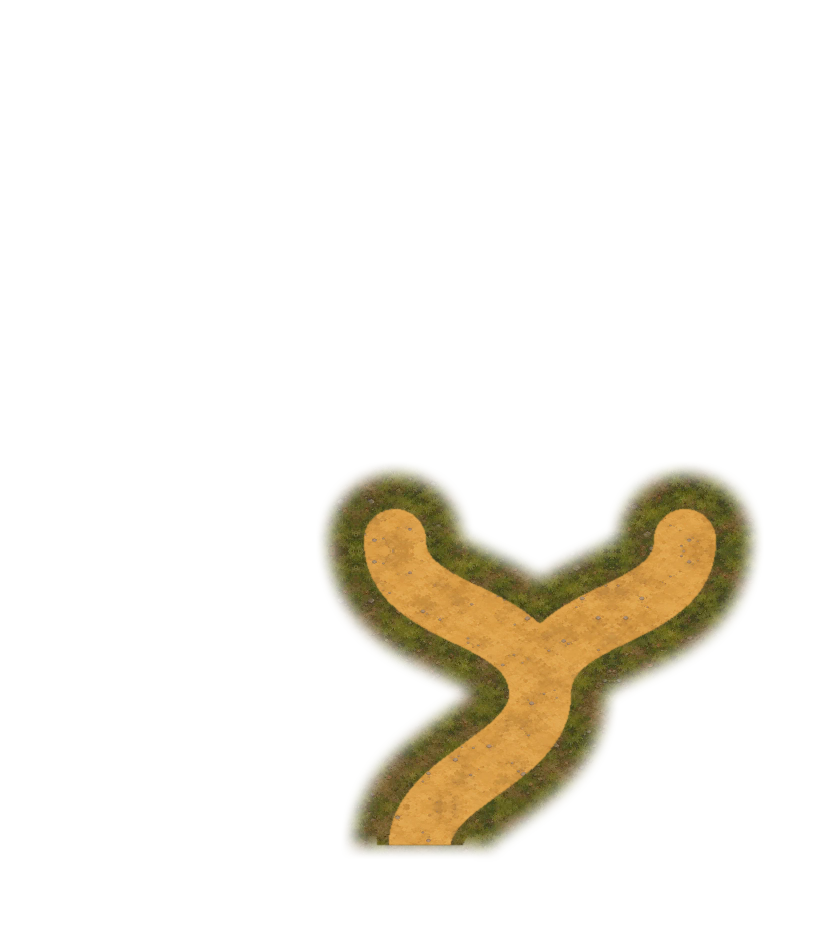
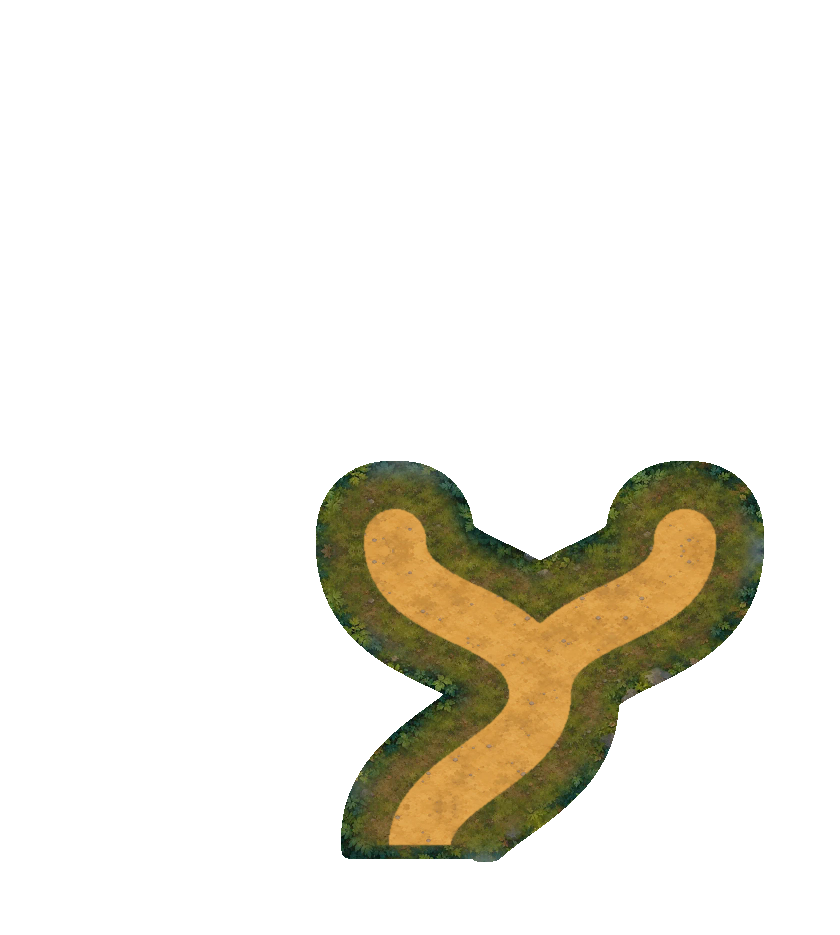
fix: stabilize sound maze mobile rendering

Changed region(s): [[0.3714, 0.4963, 0.9286, 0.9305]]

diff --git a/src/components/SoundMazeMapViewport.tsx b/src/components/SoundMazeMapViewport.tsx
@@ -17,6 +17,7 @@ interface SoundMazeMapViewportProps {
   exploredWrongRoutes: ReadonlySet<string>;
   revealedWallRouteId: string | null;
   focusedRouteSide: 'left' | 'right' | null;
+  restoringWrongRoute?: boolean;
   chosenCorrectRoutes: ReadonlyMap<number, 'left' | 'right'>;
   collectedFragmentNodes: ReadonlySet<number>;
   fragmentCount: number;
@@ -60,7 +61,7 @@ const ROAD_PIECES: readonly RoadPiece[] = [
 const ROAD_TILE_X = -100;
 const ROAD_TILE_WIDTH = 840;
 const roadPieceUrl = (nodeIndex: number, piece: RoadPiece) =>
-  `${soundMazeRoadTile(`node-${nodeIndex + 1}-${piece}`, 'png')}?v=14f1`;
+  `${soundMazeRoadTile(`node-${nodeIndex + 1}-${piece}`, 'png')}?v=14f2`;
 
 function roadTileBounds(nodeIndex: number) {
   const destinationNode = LEVEL_TWO_MAZE_GEOMETRY[nodeIndex + 1];
@@ -74,19 +75,22 @@ function RoadTile({
   nodeIndex,
   piece,
   visible,
-  outgoing
+  outgoing,
+  restoring
 }: {
   nodeIndex: number;
   piece: RoadPiece;
   visible: boolean;
   outgoing: boolean;
+  restoring: boolean;
 }) {
   const bounds = roadTileBounds(nodeIndex);
   const className = [
     'sound-maze-road-tile',
     `piece-${piece}`,
     visible ? 'is-visible' : null,
-    outgoing ? 'is-outgoing' : null
+    outgoing ? 'is-outgoing' : null,
+    restoring ? 'is-restoring' : null
   ].filter(Boolean).join(' ');
   return (
     <img
@@ -128,6 +132,7 @@ export const SoundMazeMapViewport = forwardRef<SoundMazeMapViewportHandle, Sound
   exploredWrongRoutes,
   revealedWallRouteId,
   focusedRouteSide,
+  restoringWrongRoute = false,
   chosenCorrectRoutes,
   collectedFragmentNodes,
   fragmentCount,
@@ -207,6 +212,7 @@ export const SoundMazeMapViewport = forwardRef<SoundMazeMapViewportHandle, Sound
       return piece === `${chosenSide}-correct`;
     }
     if (isCurrent) {
+      if (restoringWrongRoute && piece === 'waiting') return true;
       if (focusedRouteSide === null) return piece === 'waiting';
       if (focusedCorrectSide !== null) return piece === `${focusedCorrectSide}-correct`;
       if (focusedWrongSide !== null) return piece === `${focusedWrongSide}-blocked`;
@@ -218,7 +224,7 @@ export const SoundMazeMapViewport = forwardRef<SoundMazeMapViewportHandle, Sound
   };
 
   const pieceIsOutgoing = (index: number, piece: RoadPiece): boolean =>
-    index === frontierIndex && focusedRouteSide !== null && piece === 'waiting';
+    index === frontierIndex && piece === 'waiting';
 
   return (
     <div className={`sound-maze-viewport sound-maze-map-viewport ${atUnsolvedFork ? 'at-unsolved-fork' : ''}`} aria-label="局部可見的迷霧道路">
@@ -245,6 +251,7 @@ export const SoundMazeMapViewport = forwardRef<SoundMazeMapViewportHandle, Sound
                   piece={piece}
                   visible={pieceIsVisible(index, piece)}
                   outgoing={pieceIsOutgoing(index, piece)}
+                  restoring={index === frontierIndex && piece === 'waiting' && restoringWrongRoute}
                 />
               ));
             })}

diff --git a/src/components/SoundMazeGame.test.tsx b/src/components/SoundMazeGame.test.tsx
@@ -33,14 +33,15 @@ describe('sound maze gameplay shell', () => {
     expect(html).toContain('sound-maze-world');
     expect(html).toContain('level-02-forest-ground.webp');
     expect(html).not.toContain('sound-maze-corridor-bank-edge-mask');
-    expect(html).toContain('road-tiles/node-1-waiting.png?v=14f1');
+    expect(html).toContain('road-tiles/node-1-waiting.png?v=14f2');
+    expect(html).toContain('piece-waiting is-visible is-outgoing');
     expect(html).toContain('level-02-landmark-01-stele.png');
     expect((html.match(/sound-maze-map-route route-/g) ?? [])).toHaveLength(2);
     expect(html).toContain('重播目標讀音');
     expect(html).not.toContain('返回上一個岔路');
     expect(html).not.toContain('sound-maze-navigation');
     expect((html.match(/class="sound-maze-road-tile/g) ?? [])).toHaveLength(10);
-    expect((html.match(/is-visible" src=/g) ?? [])).toHaveLength(1);
+    expect((html.match(/sound-maze-road-tile[^\"]*is-visible/g) ?? [])).toHaveLength(1);
     expect((html.match(/class="sound-maze-node/g) ?? [])).toHaveLength(2);
     expect(html).not.toContain('sound-maze-road-mask-');
     expect(html).not.toContain('sound-fragment-large.png');
@@ -118,6 +119,18 @@ describe('sound maze gameplay shell', () => {
     expect(wrongHtml).toContain('height:102px');
     expect(wrongHtml).toContain('left:266px;top:1937px');
 
+    const restoringHtml = renderToStaticMarkup(
+      <SoundMazeMapViewport
+        {...commonProps}
+        revealedWallRouteId={null}
+        focusedRouteSide={wrongRoute.side as 'left' | 'right'}
+        restoringWrongRoute
+      />
+    );
+    expect((restoringHtml.match(/sound-maze-road-tile[^\"]*is-visible/g) ?? [])).toHaveLength(2);
+    expect(restoringHtml).toContain('piece-waiting is-visible is-outgoing is-restoring');
+    expect(restoringHtml).toContain(`piece-${wrongRoute.side}-blocked is-visible`);
+
     const correctHtml = renderToStaticMarkup(
       <SoundMazeMapViewport
         {...commonProps}
@@ -151,7 +164,7 @@ describe('sound maze gameplay shell', () => {
         focusedRouteSide={null}
       />
     );
-    expect(fourthForkHtml).toContain('road-tiles/node-4-waiting.png?v=14f1');
+    expect(fourthForkHtml).toContain('road-tiles/node-4-waiting.png?v=14f2');
     expect(fourthForkHtml).not.toContain('sound-maze-road-paint-bounds-route-3-left');
 
     const nearFragmentHtml = renderToStaticMarkup(
@@ -172,7 +185,7 @@ describe('sound maze gameplay shell', () => {
       />
     );
     expect((preloadedHtml.match(/sound-maze-node is-visible/g) ?? [])).toHaveLength(2);
-    expect(preloadedHtml).toContain('road-tiles/node-2-waiting.png?v=14f1');
+    expect(preloadedHtml).toContain('road-tiles/node-2-waiting.png?v=14f2');
     expect((preloadedHtml.match(/is-visible" src=/g) ?? [])).toHaveLength(2);
     expect(preloadedHtml).not.toContain('sound-maze-branch-fog');
     expect(preloadedHtml).not.toContain('sound-maze-route-focus-fog');

diff --git a/tests/soundMazeCloseout.test.ts b/tests/soundMazeCloseout.test.ts
@@ -55,12 +55,18 @@ describe('sound maze closeout safeguards', () => {
     expect(viewport).toContain("piece === 'waiting'");
     expect(viewport).toContain('piece === `${focusedCorrectSide}-correct`');
     expect(viewport).toContain('piece === `${focusedWrongSide}-blocked`');
+    expect(viewport).toContain("restoringWrongRoute && piece === 'waiting'");
+    expect(viewport).toContain("index === frontierIndex && piece === 'waiting'");
+    expect(viewport).not.toContain("index === frontierIndex && focusedRouteSide !== null && piece === 'waiting'");
+    expect(game).toContain('setRestoringWrongRoute(true);');
+    expect(game.indexOf('setRestoringWrongRoute(true);')).toBeLessThan(game.lastIndexOf('setFocusedRouteSide(null);'));
     expect(viewport).not.toContain('sound-maze-road-junction');
     expect(viewport).not.toContain('previewNodeIndex');
     expect(game.lastIndexOf('setChosenCorrectRoutes')).toBeGreaterThan(game.indexOf('await moveCameraAlong(afterFragment, 165)'));
     expect(styles).toMatch(/\.sound-maze-road-tile\s*\{[^}]*opacity:\s*0;[^}]*transition:\s*opacity 260ms ease;/);
     expect(styles).toMatch(/\.sound-maze-road-tile\.is-visible\s*\{[^}]*opacity:\s*1;/);
     expect(styles).toMatch(/\.sound-maze-road-tile\.is-visible\s*\{[^}]*transition-duration:\s*0ms;/);
+    expect(styles).toMatch(/\.sound-maze-road-tile\.is-visible\.is-restoring\s*\{[^}]*transition-duration:\s*260ms;/);
     expect(styles).toMatch(/\.sound-maze-road-tile\.is-outgoing\s*\{[^}]*z-index:\s*12;/);
     expect(styles).toMatch(/\.sound-maze-node\s*\{[^}]*visibility:\s*hidden;/);
     expect(styles).not.toMatch(/\.sound-maze-node\s*\{[^}]*transition:/);
@@ -93,6 +99,9 @@ describe('sound maze closeout safeguards', () => {
     expect(styles).not.toMatch(/\.sound-maze-node\s*\{[^}]*will-change:\s*opacity;/);
     expect(baker).toContain("waiting: [{ d: incoming, capEnd: false }, frontPath(index, 'left'), frontPath(index, 'right')]");
     expect(baker).not.toContain('bakeBranchCover');
+    expect(baker).toContain("'level-02-forest-ground.webp', 768");
+    expect(baker).toContain('flattenVisiblePixelsOntoForest');
+    expect(baker).toContain('flattened[rgbaOffset + 3] = 255');
     expect(baker).toContain('.png({ compressionLevel: 9, adaptiveFiltering: true })');
   });
 });

diff --git a/src/components/SoundMazeGame.tsx b/src/components/SoundMazeGame.tsx
@@ -83,6 +83,7 @@ export function SoundMazeGame({
   const [cameraPoint, setCameraPoint] = useState<SoundMazePoint>(LEVEL_TWO_MAZE_GEOMETRY[0].fork);
   const [revealedWallRouteId, setRevealedWallRouteId] = useState<string | null>(null);
   const [focusedRouteSide, setFocusedRouteSide] = useState<'left' | 'right' | null>(null);
+  const [restoringWrongRoute, setRestoringWrongRoute] = useState(false);
   const [chosenCorrectRoutes, setChosenCorrectRoutes] = useState<ReadonlyMap<number, 'left' | 'right'>>(() => new Map());
   const [collectedFragmentNodes, setCollectedFragmentNodes] = useState<ReadonlySet<number>>(() => new Set());
   const mapViewportRef = useRef<SoundMazeMapViewportHandle>(null);
@@ -234,9 +235,11 @@ export function SoundMazeGame({
       if (!mountedRef.current) return;
       setExploredWrongRoutes((current) => new Set(current).add(route.id));
       setRevealedWallRouteId(null);
-      setFocusedRouteSide(null);
+      setRestoringWrongRoute(true);
       await waitWhileActive(routeFadeDuration());
       if (!mountedRef.current) return;
+      setFocusedRouteSide(null);
+      setRestoringWrongRoute(false);
       setFeedback('none');
       busyRef.current = false;
       setBusy(false);
@@ -327,6 +330,7 @@ export function SoundMazeGame({
           exploredWrongRoutes={exploredWrongRoutes}
           revealedWallRouteId={revealedWallRouteId}
           focusedRouteSide={focusedRouteSide}
+          restoringWrongRoute={restoringWrongRoute}
           chosenCorrectRoutes={chosenCorrectRoutes}
           collectedFragmentNodes={collectedFragmentNodes}
           fragmentCount={fragmentCount}

diff --git a/src/styles.css b/src/styles.css
@@ -1912,6 +1912,10 @@ button:disabled {
   transition-duration: 0ms;
 }
 
+.sound-maze-road-tile.is-visible.is-restoring {
+  transition-duration: 260ms;
+}
+
 .sound-maze-road-tile.is-outgoing { z-index: 12; }
 
 .sound-maze-road-tile.piece-left-correct,
